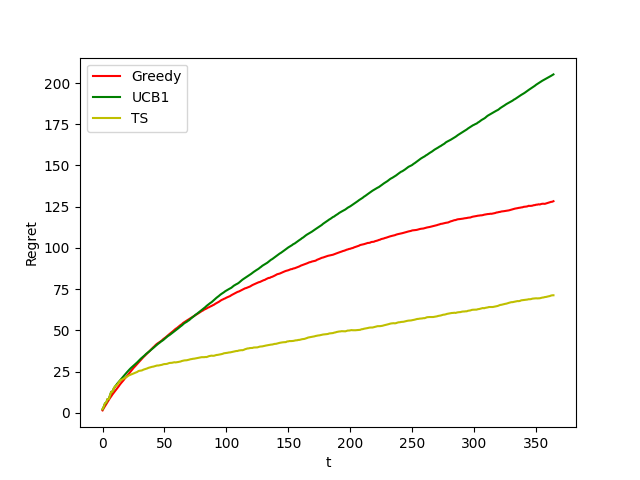
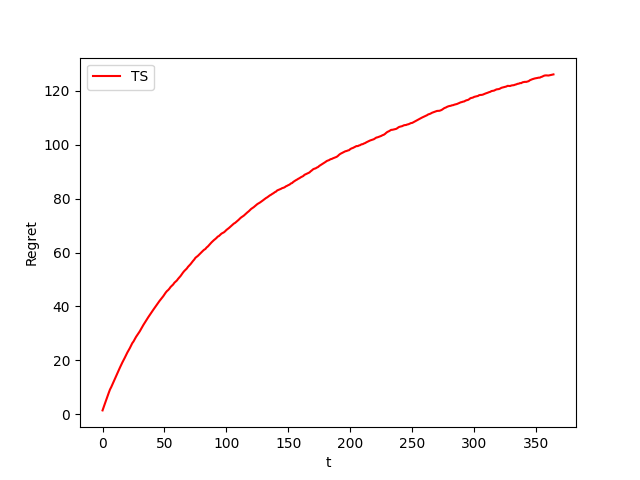
contex gen updates

diff --git a/test.py b/test.py
@@ -1,0 +1,109 @@
+import numpy as np
+import matplotlib.pyplot as plt
+from learners import Learner
+from tqdm import tqdm
+
+from sklearn.gaussian_process import GaussianProcessRegressor
+from sklearn.gaussian_process.kernels import RBF, ConstantKernel as C
+from scipy.stats import norm
+
+
+def fun(x):
+  return 100*(1.0-np.exp(-4*x+3*x**3))
+
+class BiddingEvironment():
+  def __init__(self,bids,sigma):
+    self.bids = bids
+    self.means = fun(bids)
+    self.sigmas = sigma*np.ones(len(bids))
+
+  def round(self, pulled_arm):    # pulled arm is the index of one of the bids
+    return np.random.normal(self.means[pulled_arm], self.sigmas[pulled_arm])
+
+
+
+# GPTS modificato in modo da tener conto delle restrizioni del prof
+
+class GPTS_learner_positive(Learner):
+  def __init__(self, n_arms, arms, threshold):
+    super().__init__(n_arms)
+    self.arms = arms
+    self.means = np.zeros(n_arms)
+    self.sigmas = np.ones(n_arms)*10
+    self.pulled_arms = []         # per avere il numero del round utilizzeremo len(pulled_arm)
+    self.threshold = threshold
+    alpha = 10.0
+    kernel = C(1.0, (1e-3, 1e3)) * RBF(1.0, (1e-3, 1e3))
+    self.gp = GaussianProcessRegressor(kernel = kernel, alpha = alpha**2, n_restarts_optimizer = 9)
+
+
+  def UpdateObservation(self, idx, reward):
+    self.update_observations(idx, reward)
+    self.pulled_arms.append(self.arms[idx])
+
+  def update_model(self):
+    x = np.atleast_2d(self.pulled_arms).T
+    y = self.collected_rewards
+    #print(x)
+    #print(y)
+    self.gp.fit(x,y)
+    self.means, self.sigmas = self.gp.predict(np.atleast_2d(self.arms).T, return_std = True)
+    self.sigmas = np.maximum(self.sigmas, 1e-2)
+
+  def update(self, pulled_arm, reward):
+    self.t += 1
+    self.UpdateObservation(pulled_arm, reward)
+    self.update_model()
+
+  def is_eligible(self, idx):
+    proba = norm(loc = self.means[idx], scale = self.sigmas[idx]).cdf(0.0)
+    if (proba < self.threshold):
+      return True
+    return False
+
+    
+  def pull_arm(self):
+    if (len(self.pulled_arms) < 10):
+      return np.random.choice(self.n_arms)   # scelta uniforme nei primi 10 round   
+    sample = np.random.normal(self.means,self.sigmas)
+    for i in range(len(sample)):  # controllo uno alla volta gli elementi del sample
+      idx = np.argmax(sample)
+      if self.is_eligible(idx):
+        return idx
+      else:
+        sample[idx] = -10000.0    # siamo sicuri che nella prossima iterazione non si sceglieà questo braccio 
+    print('errore, nessun braccio eligible, ne restituisco uno a caso')    
+    return np.argmax(np.random.normal(self.means,self.sigmas))
+
+n_arms = 20
+min_bid = 0.0
+max_bid = 1.0
+bids = np.linspace(min_bid, max_bid, n_arms)
+sigma = 10
+
+T = 40
+n_experiments = 10
+
+gts_reward_per_experiment = []
+gpts_reward_per_experiment = []
+
+for e in tqdm(range(n_experiments)):
+  env = BiddingEvironment(bids, sigma)
+  gpts_learner = GPTS_learner_positive(n_arms=n_arms, arms=bids, threshold=0.2) # qui metto anche bid perchè per implementare GP serve sapere le distanze tra i dati
+
+  for t in range(T):
+
+    pulled_arm = gpts_learner.pull_arm()
+    reward = env.round(pulled_arm)
+    gpts_learner.update(pulled_arm, reward)
+    #print(pulled_arm)
+
+  gpts_reward_per_experiment.append(gpts_learner.collected_rewards)
+
+opt = np.max(env.means)
+plt.figure(0)
+plt.ylabel('Regret')
+plt.xlabel('t')
+plt.plot(np.cumsum(np.mean(opt - gpts_reward_per_experiment, axis = 0)),'g')
+
+plt.show()

diff --git a/experiment_4.py b/experiment_4.py
@@ -19,36 +19,20 @@ print(f'optimal: {opt}')
 print(f'prob per prices: {np.multiply(p, prices)}')
 
 T = 365 # number of days
-n_experiments = 1000
-
-gr_reward_per_experiments = []
-uc_reward_per_experiments = []
+n_experiments = 100
 ts_reward_per_experiments = []
 
 for e in tqdm(range(0, n_experiments)):
     env = SpecificEnvironment(n_arms=n_arms, probabilities=p, candidates=prices)
-    gr_learner = Greedy_Learner(n_arms=n_arms)
-    uc_learner = UCB1(n_arms=n_arms, prices=prices)
     ts_learner = TS_Learner(n_arms=n_arms, candidates=prices)
     for t in range(0,T):
-        
-        # Greedy Learner
-        pulled_arm = gr_learner.pull_arm()
-        reward = env.round(pulled_arm)
-        gr_learner.update(pulled_arm, reward)
-
-        # UCB1
-        pulled_arm = uc_learner.pull_arm()
-        reward = env.round(pulled_arm)
-        uc_learner.update(pulled_arm, reward)
 
         # TS 
         pulled_arm = ts_learner.pull_arm(prices)
         reward = env.round(pulled_arm)
         ts_learner.update(pulled_arm, reward)
+        print(f'opt arm lower bound: {ts_learner.optimal_arm_lower_bound()}')
 
-    gr_reward_per_experiments.append(gr_learner.collected_rewards)
-    uc_reward_per_experiments.append(uc_learner.collected_rewards)
     ts_reward_per_experiments.append(ts_learner.collected_rewards)
 ts_learner.optimal_arm()
 
@@ -56,8 +40,6 @@ plt.figure(0)
 plt.xlabel("t")
 plt.ylabel("Regret")
 plt.plot(np.cumsum(np.mean(opt - ts_reward_per_experiments, axis=0)), 'r')
-plt.plot(np.cumsum(np.mean(opt - gr_reward_per_experiments, axis=0)), 'g')
-plt.plot(np.cumsum(np.mean(opt - uc_reward_per_experiments, axis=0)), 'y')
-plt.legend(["Greedy", "UCB1", "TS"])
+plt.legend(["TS"])
 plt.savefig("img/experiments/experiment_4.png")
 #plt.show()

diff --git a/context.py b/context.py
@@ -1,5 +1,6 @@
 import numpy as np
 from learners import TS_Learner
+from utils import *
 
 class Context():
     """
@@ -37,4 +38,22 @@ class Context():
 
         return learner
 
-        
+    def split_evaluation(self, feature):
+        """
+        return the value obtained by splitting 
+        for the feature
+        """
+        obs_1 = self.retrieve_obs(feature)
+        obs_2 = 
+
+    def retrieve_obs(self, feature):
+
+        #for i, o in enumerate(self.obs):
+        #    if feature 
+
+
+
+class ContextGenerator():
+
+    def __init__(self, n_arms, features, candidates):
+        pass

diff --git a/learners.py b/learners.py
@@ -133,5 +133,19 @@ class TS_Learner(Learner):
         # by its candidate value (price in our case)
 
         return self.success_prob(arm) * self.candidates[arm]
+    
+    def optimal_arm_lower_bound(self):
+
+        opt_arm = self.optimal_arm()
+        exp_val = self.expected_value(opt_arm)
+
+        succ_prob_opt_arm = self.success_prob(opt_arm)
+
+        confidence = succ_prob_opt_arm / (1 - succ_prob_opt_arm)
+
+        # Hoeffding bound
+
+        return exp_val - np.sqrt(-np.log(confidence) / (2 * len(self.obs)))
+
 
 

diff --git a/main.py b/main.py
@@ -1,17 +1,25 @@
 import yaml
-from pricing import *
 import numpy as np
+from utils import *
+
+from pricing import PersonGenerator
 
 with open('config.yml', 'r') as file:
     config = yaml.safe_load(file)
 
 
 
-a = [1,2,3]
-b = [3,2,5]
-c = np.add(a,b)
-print(np.add(a,b))
-print(np.divide(c, 2))
+#a = [1,2,3]
+#b = [3,2,5]
+#c = np.add(a,b)
+#print(np.add(a,b))
+#print(np.divide(c, 2))
+
+pg = PersonGenerator(None, config["class_distribution"])
+
+for _ in range(10):
+    print(pg.generate_person())
+
 
 
 

diff --git a/utils.py b/utils.py
@@ -1,0 +1,18 @@
+
+
+def complement_feature(feature):
+    """
+    given a feature, return the complement
+    of that feature.
+
+    e.g. 
+    input feature is "Y" (young) output is
+    the complement, "A" (adult)
+    """
+
+    features_set = [["Y", "A"],["I", "D"]]
+    for f_set in features_set:
+        if feature in f_set:
+            f_set.remove(feature)
+            return f_set[0]
+    return 0

diff --git a/pricing.py b/pricing.py
@@ -1,0 +1,14 @@
+import numpy as np
+
+class PersonGenerator():
+
+    def __init__(self, features, probabilities):
+        self.features = features
+        self.probabilities = probabilities
+  
+    def generate_person(self):
+        
+        n = np.random.choice(4, size=1, p=self.probabilities)[0]
+
+        return a[n]
+
